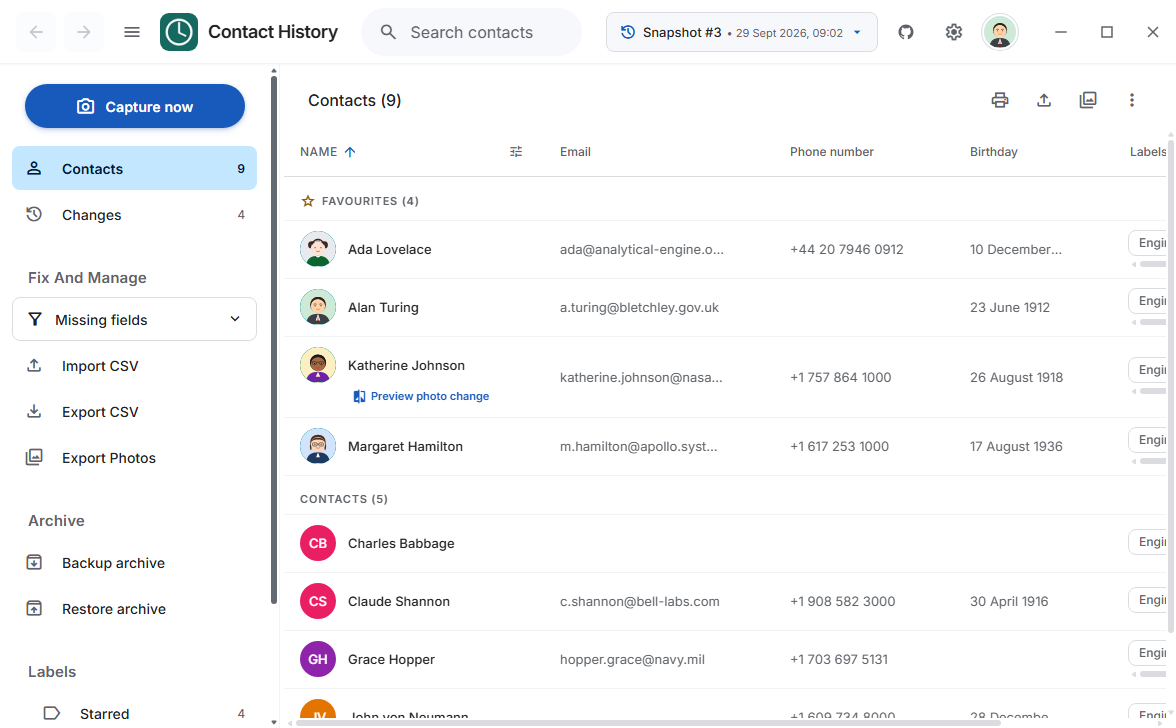
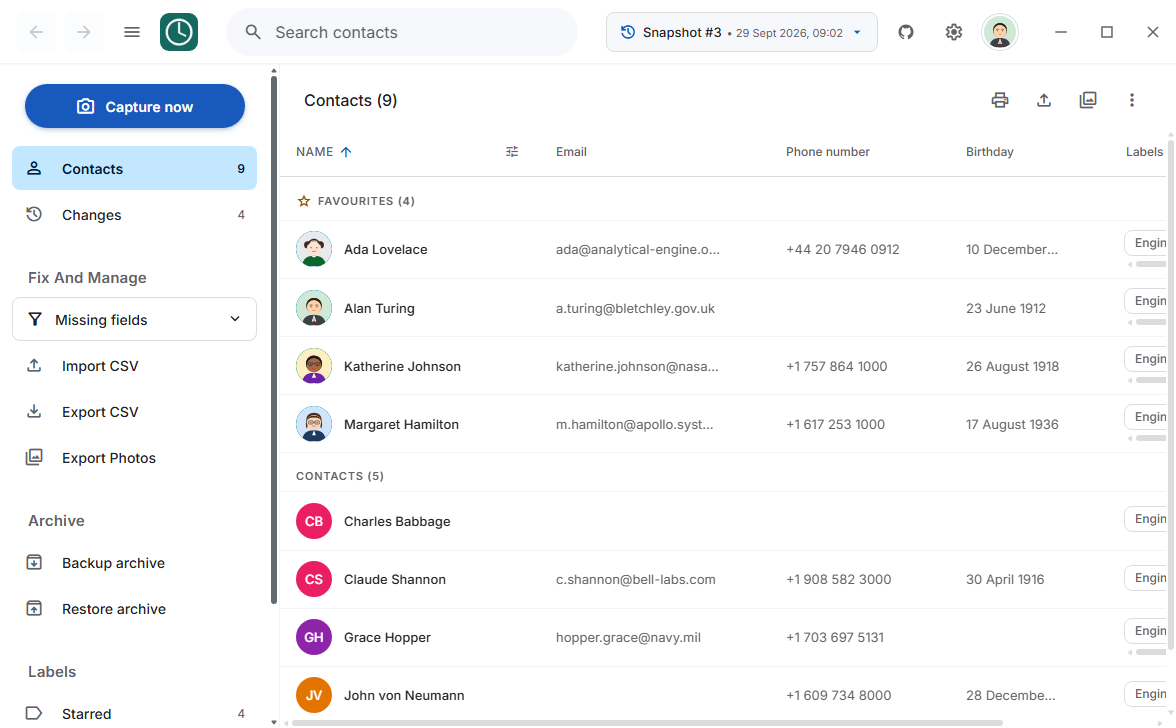
docs: refresh app screenshots and remove Bun callout

diff --git a/README.md b/README.md
@@ -82,9 +82,6 @@ Google Contacts syncs in real-time, but it provides **no revision history, point
 - [Rust & Cargo](https://www.rust-lang.org) (MSVC toolchain)
 - Windows 10/11 with WebView2 Runtime
 
-> [!IMPORTANT]
-> This project strictly uses **Bun**. Do not use npm, npx, yarn, or pnpm.
-
 ### Setup & Run
 ```powershell
 # Install frontend dependencies
